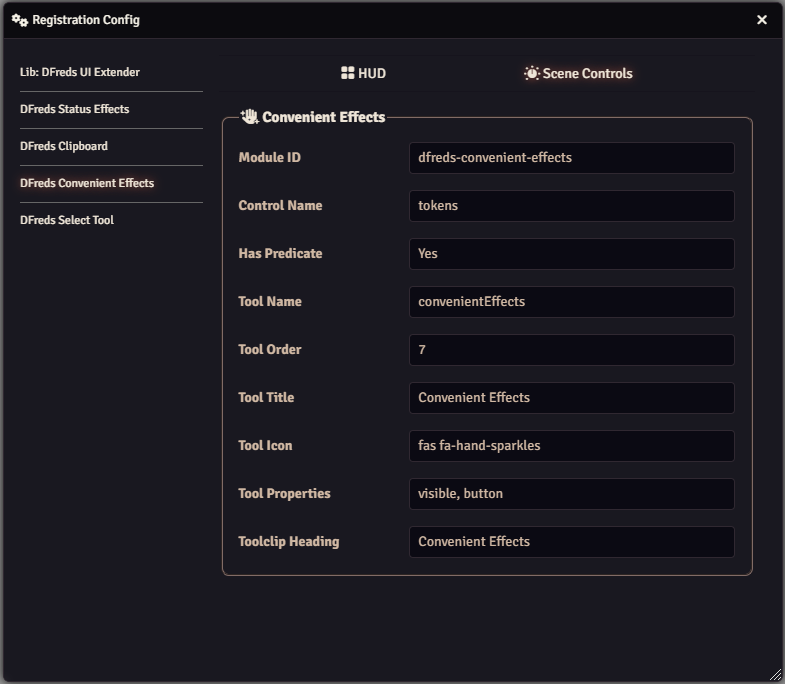
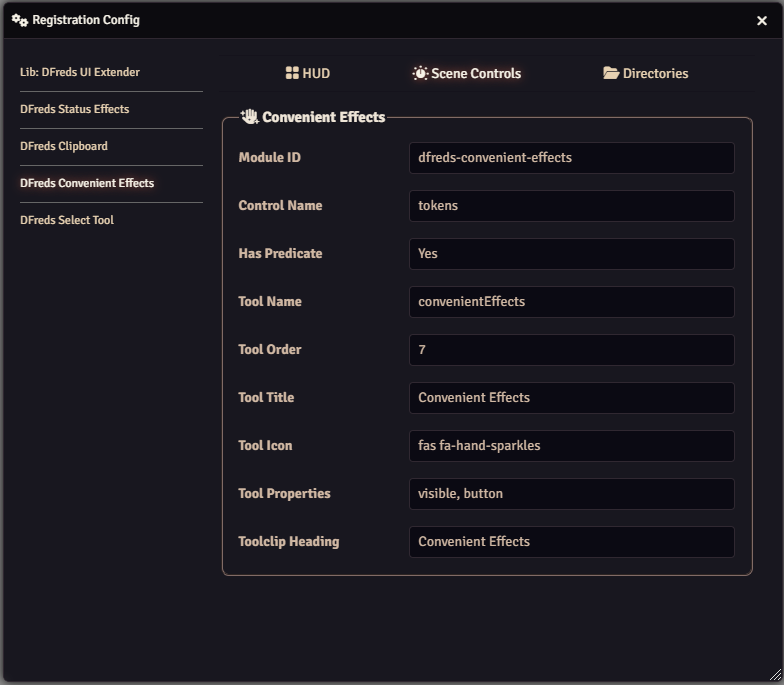
Add docs around adding sidebar directories

diff --git a/docs/developers/lib-ui-extender/index.md b/docs/developers/lib-ui-extender/index.md
@@ -21,8 +21,9 @@ A FoundryVTT module library that adds easy ways to extend the base Foundry UI.
 
 ## Features
 
-- Easily add new scene controls to any layer controls (token, tiles, drawings, walls, etc.)
 - Easily add new HUD controls to tokens, tiles, or drawings
+- Easily add new scene controls to any layer controls (token, tiles, drawings, walls, etc.)
+- Easily add new sidebar directories
 - Fully typed library included in repository for Typescript projects
 
 ## Configuration
@@ -99,7 +100,7 @@ export function mySampleModule() {
 
 ### Register HUD Button
 
-A HUD button is a button located located on a specific item on the canvas when you right click. Under the hood, this uses the `render${type}HUD` hook.
+A HUD button is a button located on a specific item on the canvas when you right click. Under the hood, this uses the `render${type}HUD` hook.
 
 ![HUD Button](./img/hud-button.png)
 
@@ -180,6 +181,56 @@ export function mySampleModule() {
             `Hello from drawing ${drawing.fillColor}`,
         );
       },
+    });
+  })
+}
+```
+
+### Register Sidebar Directory
+
+A sidebar directory is a button located on the sidebar.
+
+![Sidebar Directory](./img/sidebar-directory.png)
+
+```js
+registerDirectory(input: DirectoryInput)
+```
+
+For the type information for `DirectoryInput`, look at the types defined in
+the repository [here](https://github.com/DFreds/lib-dfreds-ui-extender/blob/main/types/uiExtender/index.d.ts).
+
+Some examples:
+
+```js
+const { AbstractSidebarTab } = foundry.applications.sidebar;
+const { HandlebarsApplicationMixin } = foundry.applications.api;
+
+// An application must extend AbstractSidebarTab
+class SampleApplication extends HandlebarsApplicationMixin(AbstractSidebarTab) {
+    static DEFAULT_OPTIONS = {
+        window: {
+            title: "Sample",
+        },
+    };
+
+    static PARTS = {
+        sample: {
+            template: `modules/${MODULE_ID}/templates/sample.hbs`,
+        },
+    };
+
+    static tabName = "sample";
+}
+
+export function mySampleModule() {
+  Hooks.once("uiExtender.init", (uiExtender) => {
+    uiExtender.registerDirectory({
+        moduleId: MODULE_ID,
+        id: "sample",
+        tooltip: "Sample",
+        icon: "fas fa-robot",
+        order: 1,
+        applicationClass: SampleApplication,
     });
   })
 }
